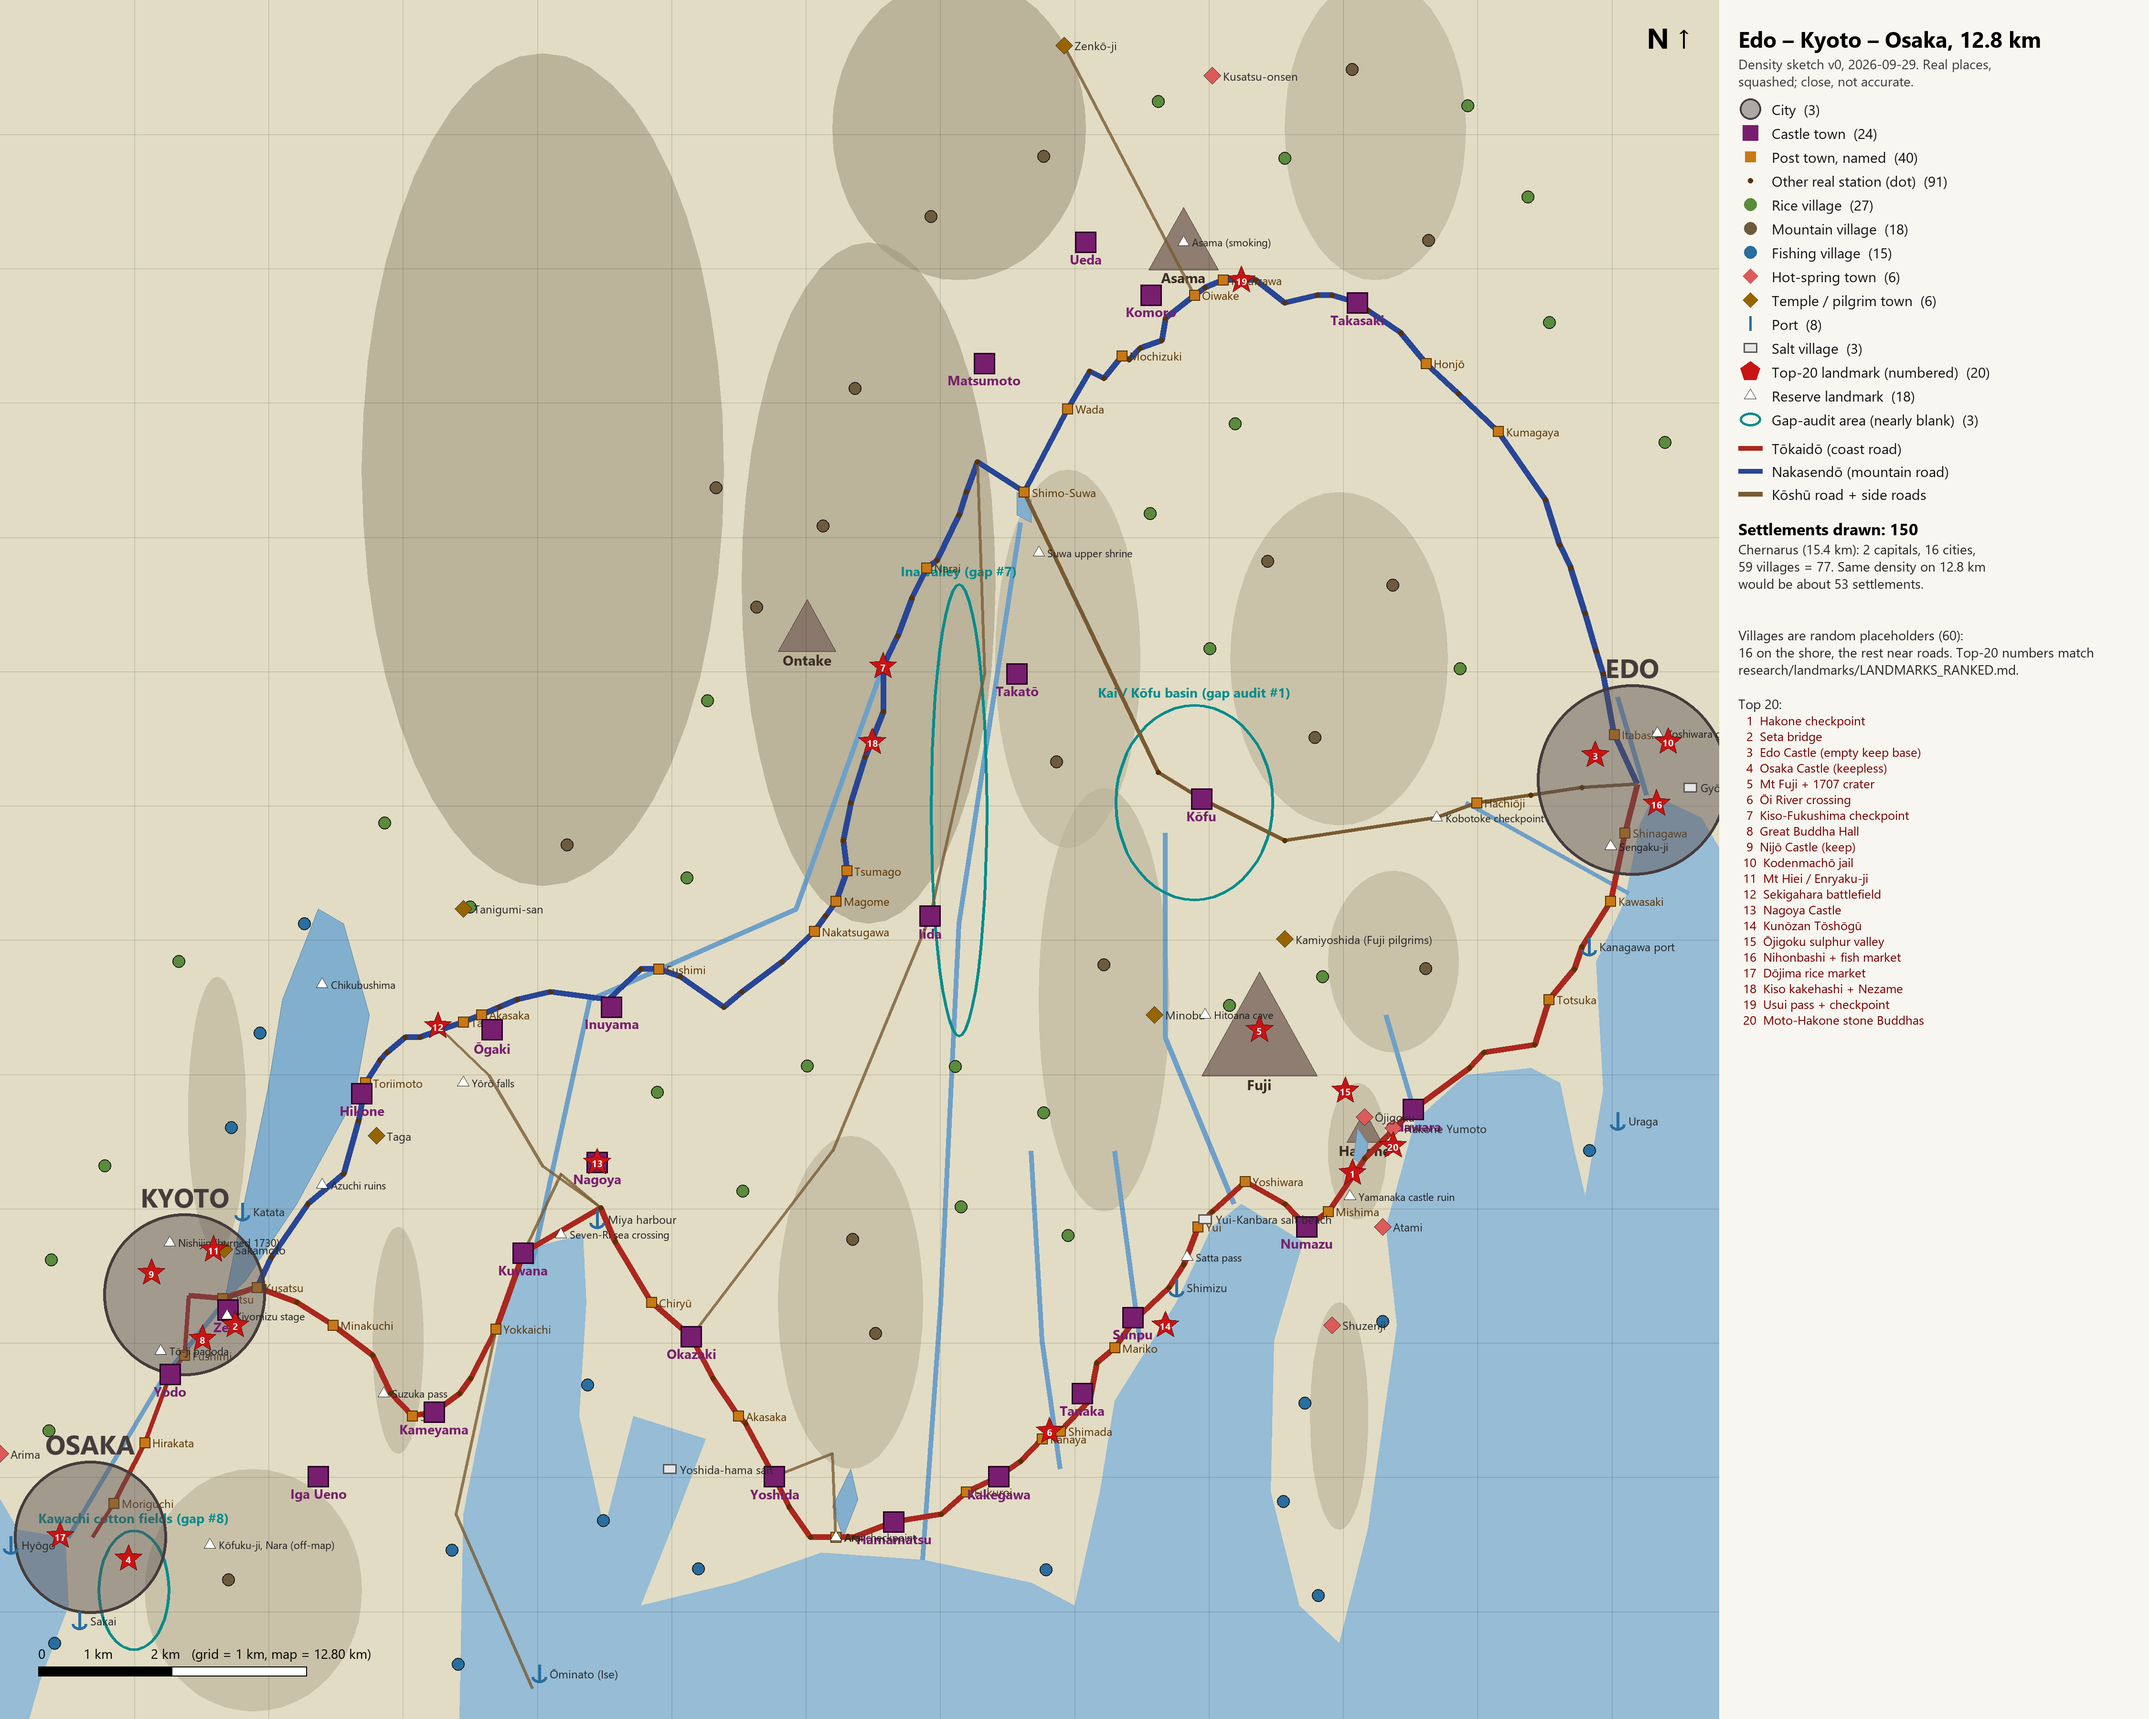
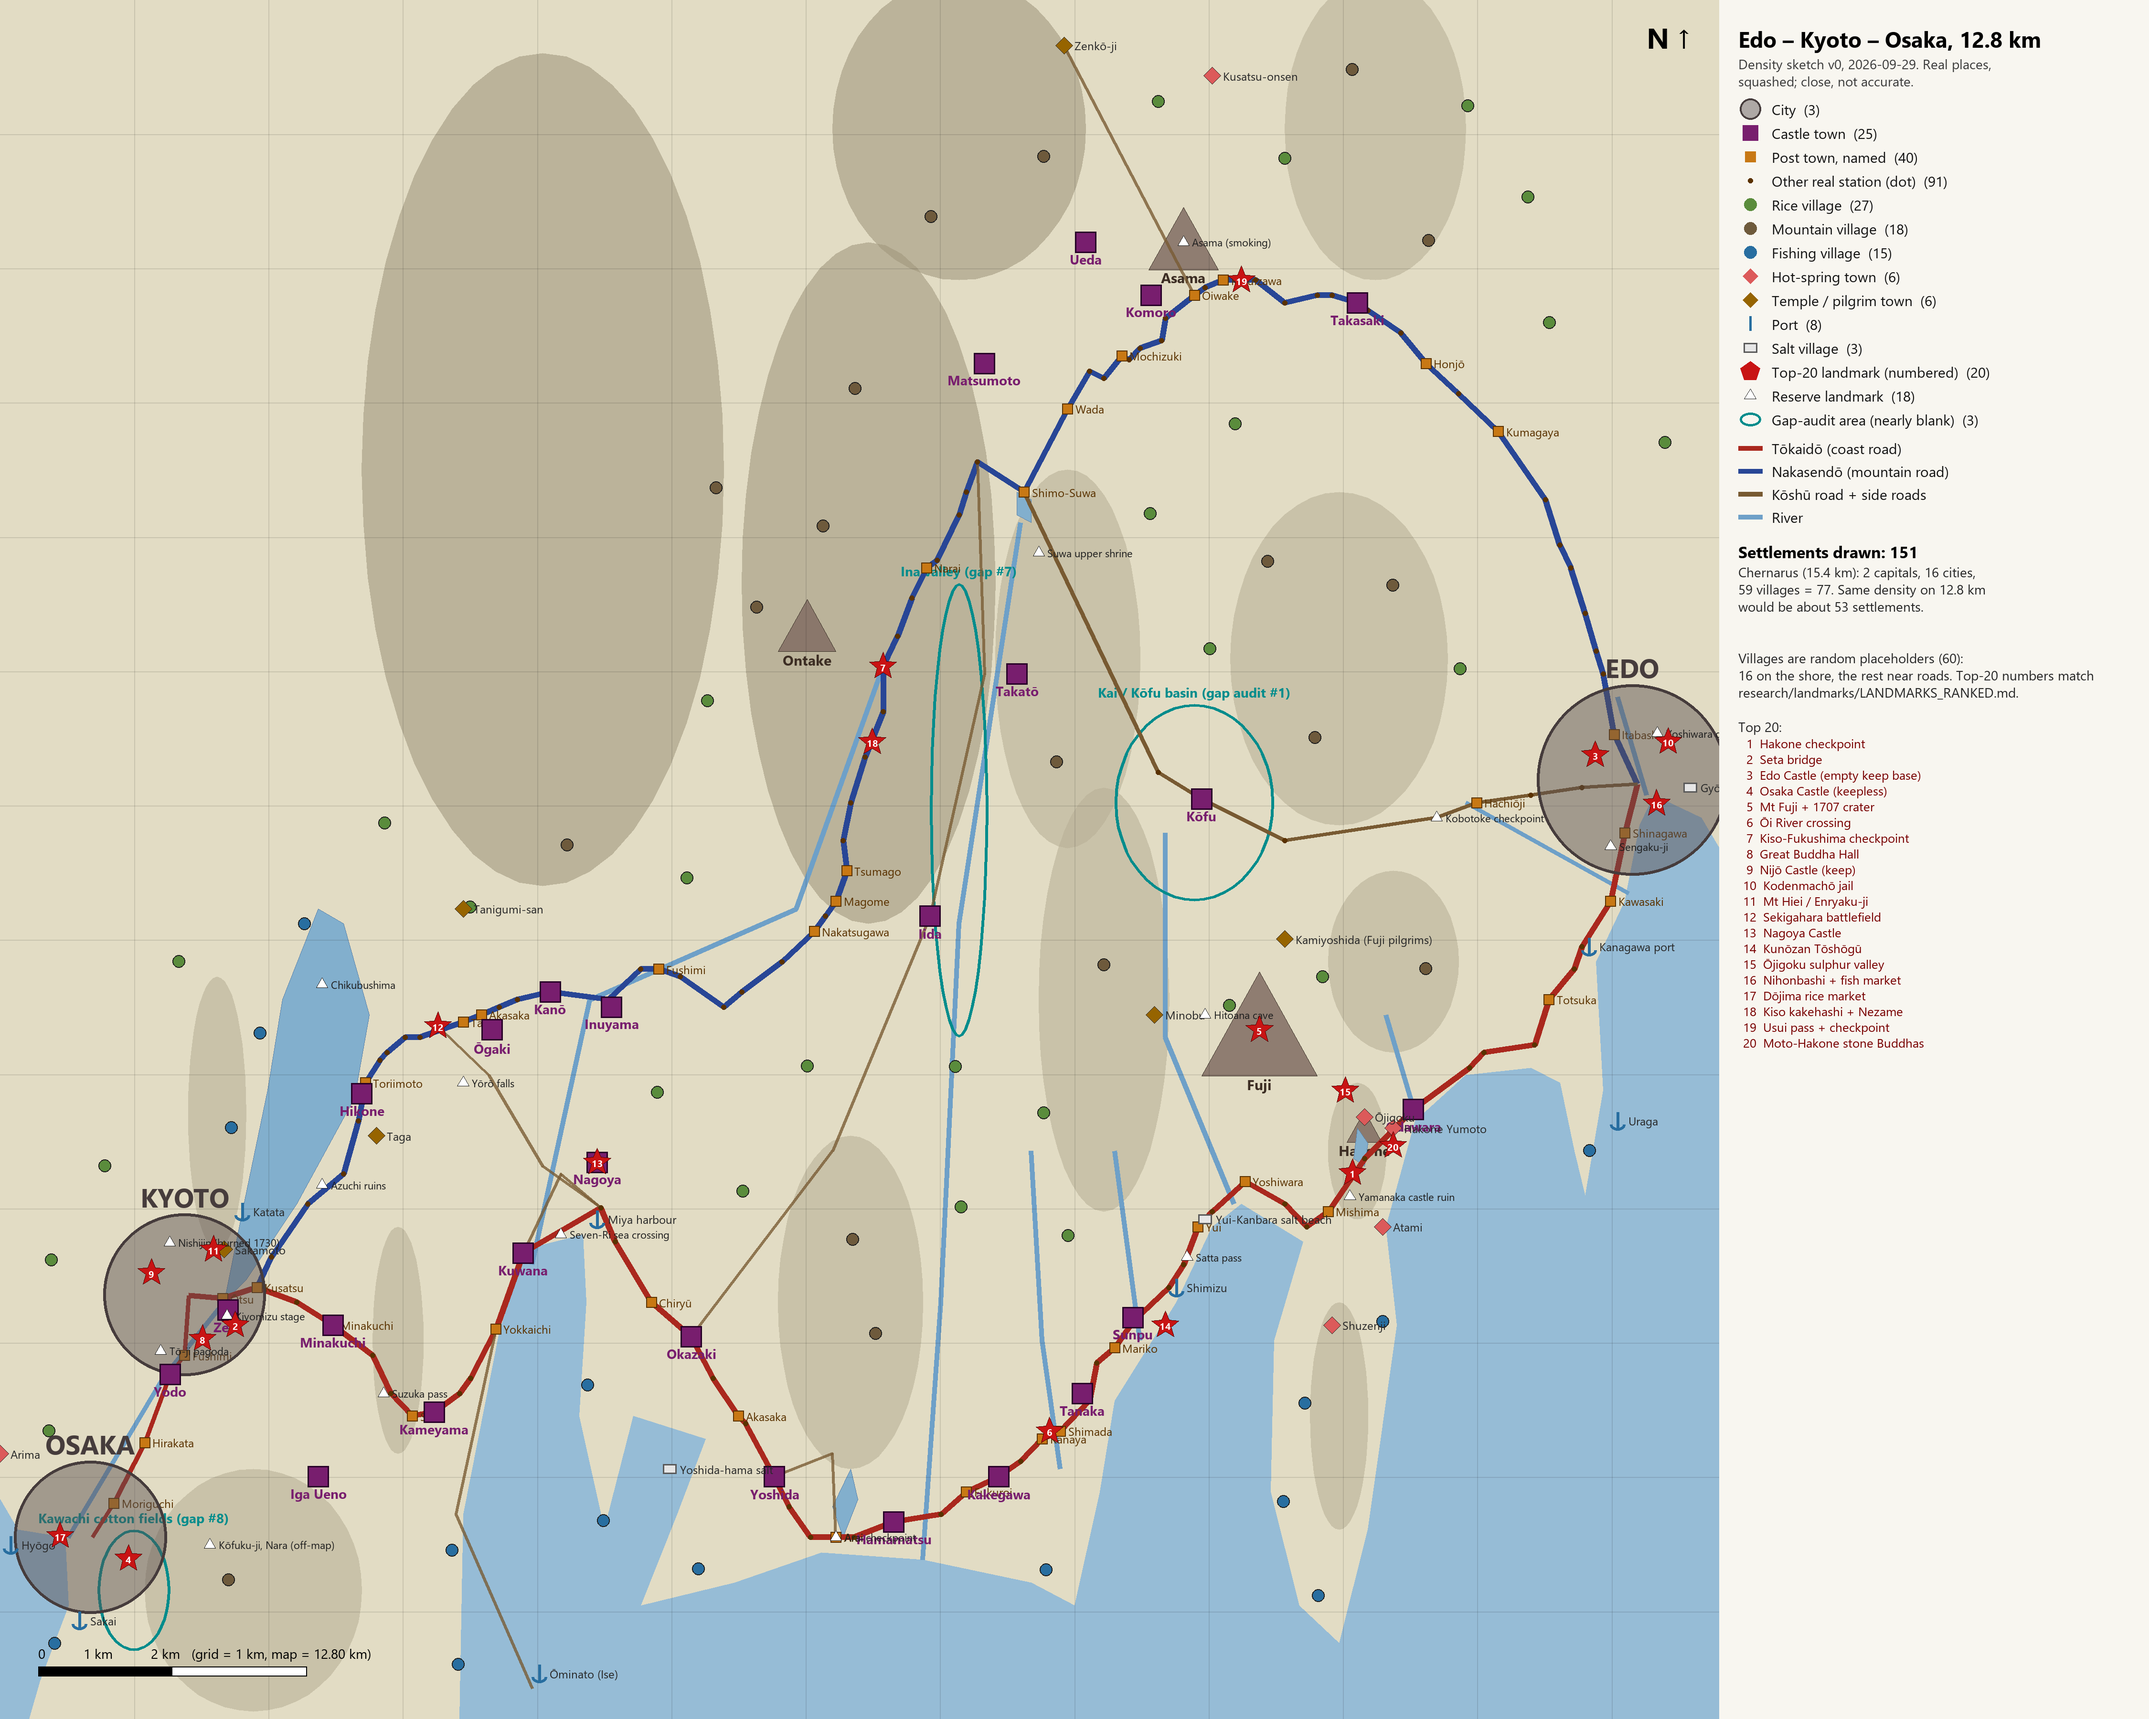
Effort policy: modelling agents at HIGH (test: 164k/252k/438k/450k); waterways G1 accepted; map: Numazu castle out, Kano + Minakuchi in

Changed region(s): [[0.8089, 0.28, 0.9644, 0.6222], [0.5911, 0.7156, 0.6222, 0.7467], [0.2489, 0.56, 0.28, 0.5911]]

diff --git a/research/map_sketch/map_sketch.py b/research/map_sketch/map_sketch.py
@@ -194,7 +194,8 @@ CASTLE_TOWNS = [
  ("Takasaki", 36.32, 139.00), ("Matsumoto", 36.24, 137.97), ("Ōgaki", 35.36, 136.61), ("Yoshida", 34.77, 137.39),
  ("Kakegawa", 34.77, 138.01), ("Kameyama", 34.855, 136.45), ("Zeze", 34.99, 135.88), ("Iida", 35.51, 137.82),
  ("Takatō", 35.83, 138.06), ("Ueda", 36.40, 138.25), ("Komoro", 36.33, 138.43), ("Tanaka", 34.88, 138.24),
- ("Iga Ueno", 34.77, 136.13), ("Inuyama", 35.39, 136.94), ("Yodo", 34.905, 135.72), ("Numazu", 35.10, 138.86),
+ ("Iga Ueno", 34.77, 136.13), ("Inuyama", 35.39, 136.94), ("Yodo", 34.905, 135.72),
+ ("Kanō", 35.41, 136.77), ("Minakuchi", 34.97, 136.17),   # added 2026-09-29 (waterways research); Numazu dropped: castle built 1777-79
 ]
 ONSEN = [("Hakone Yumoto", 35.23, 139.10), ("Atami", 35.10, 139.07), ("Shuzenji", 34.97, 138.93), ("Arima", 34.80, 135.25),
          ("Kusatsu-onsen", 36.62, 138.60), ("Ōjigoku", 35.245, 139.02)]

diff --git a/research/catalogue/G1_DECISIONS.md b/research/catalogue/G1_DECISIONS.md
@@ -49,3 +49,15 @@ The recommendations at the top of `research/interior/BUILD_LIST.md` are binding:
 - Re-sample the doma colour before building
 
 **Gate G1 PASSED for all three build lists, 2026-09-29.**
+
+## Waterways (research/waterways/WATERWAYS.md): 10 decisions, ALL ACCEPTED 2026-09-29 ("yes to all")
+1. Add type g (shore landing: harbour, beach, lake shore).
+2. Split type c into three: levee river, braided gravel river with no bridge, small town river.
+3. Type b (Takase) is Kyoto's hero, built mostly from type a parts.
+4. Coastal canal towns use the real sea; inland waterways use pond water.
+5. Abandoned water levels: canals full; Takase and street channels near-dry; moats green.
+6. Mid-street channels only where a source shows them.
+7. No cherry rows along canals; wild cherries only on the Sumida levee.
+8. Drop Numazu's castle (built 1777–79). DONE in map_sketch.py.
+9. Kanō and Minakuchi get small moats (low priority); added as castle towns in map_sketch.py. DONE.
+10. Test a stepped pond river in the engine before any river build list.

diff --git a/PRODUCTION_PLAN.md b/PRODUCTION_PLAN.md
@@ -112,3 +112,10 @@
   shallow canal, big river, street channel, village stream, moat) with cross-sections, edges, planting, bridges and
   house frontage, plus EVERY map settlement assigned a type (Stephen: "each city we have will need to fall into one of
   these categories"). A G1-style review for Stephen when done.
+- 2026-09-29: **Effort test RESULT.** Tokens: medium 164k, high 252k, xhigh 438k, max 450k. In game, Stephen found
+  **high** "looks pretty good" and about the same as xhigh at ~42% fewer tokens.
+  **POLICY: every modelling/building agent runs at effort HIGH** (`subagent_type: opus-high`, defined in
+  `D:\DayZ-Server_AI-20260907-MultiMap\.claudegents\`). The four tansus stay on the test island
+  (`test/spawns/E.json`) as reference.
+- 2026-09-29: Waterways G1 accepted (10 decisions; research/catalogue/G1_DECISIONS.md). Map sketch: Numazu castle
+  dropped, Kanō + Minakuchi castle towns added.
